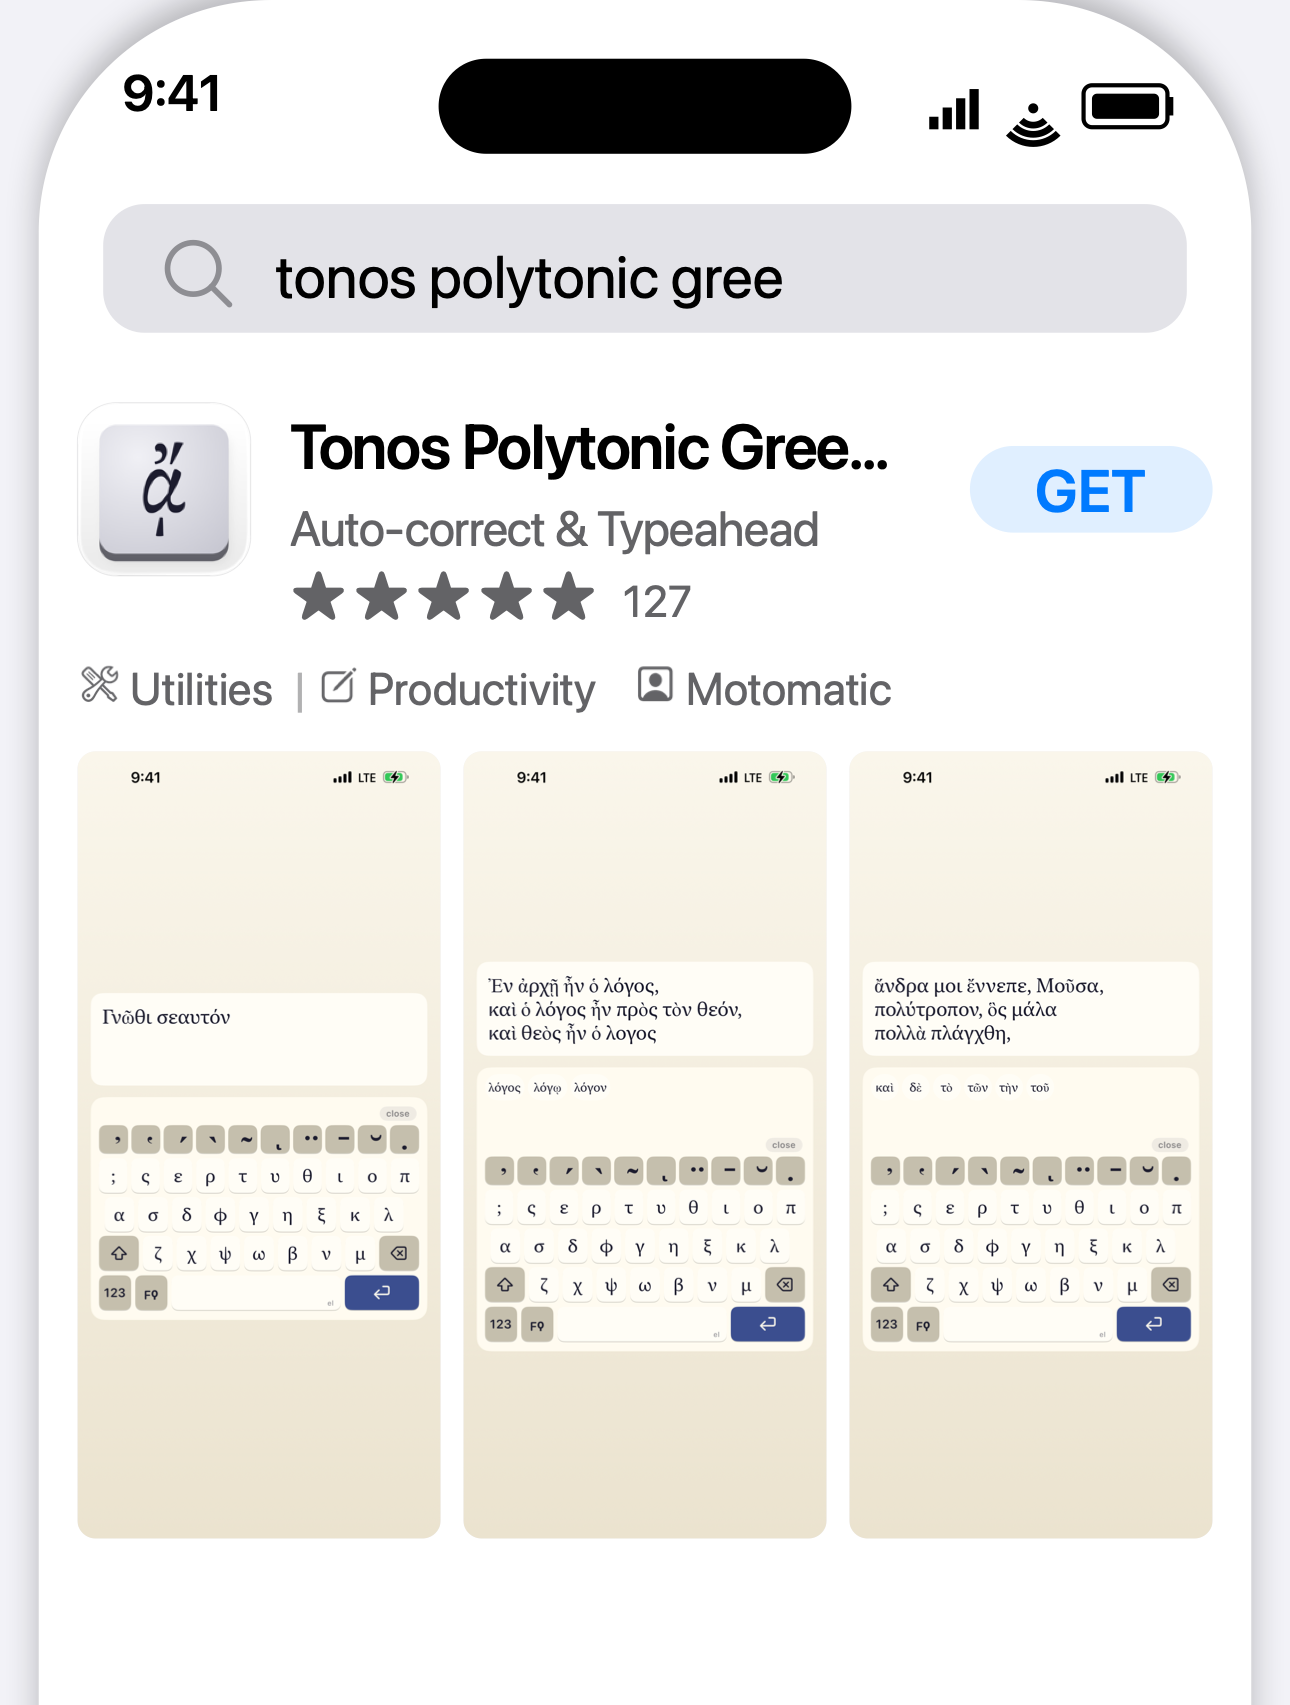
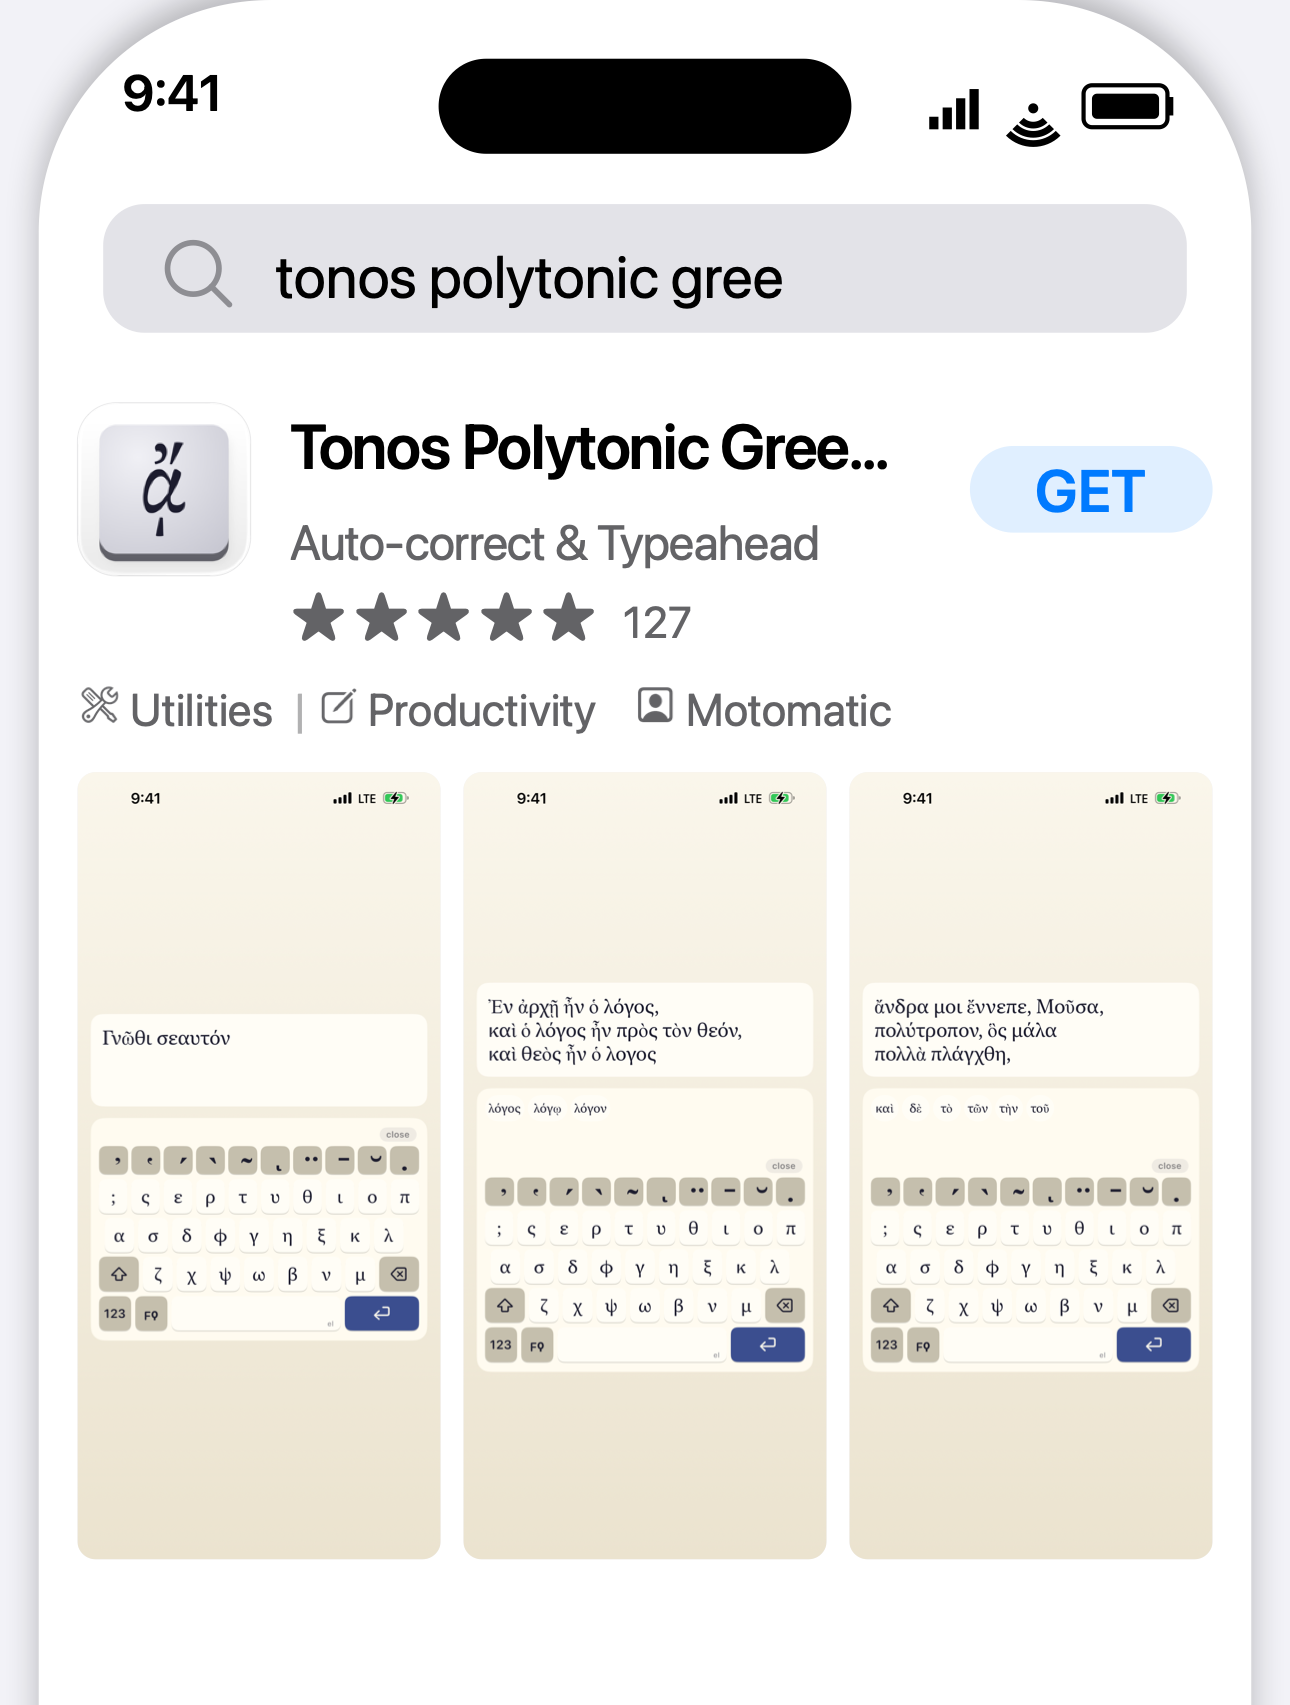
v3.2.2: more breathing room in search-row title/subtitle/stars stack
Bumps inter-row gaps from 10%/6% to 18%/10% of icon size. The previous
values produced visible gaps in raw pixel terms but read as crowded at
the displayed scale on docs. Matches App Store optical spacing better.

diff --git a/Sources/StorescreensCore/Render/SearchPreview/SearchPreviewRenderer.swift b/Sources/StorescreensCore/Render/SearchPreview/SearchPreviewRenderer.swift
@@ -1152,12 +1152,10 @@ package struct SearchPreviewRenderer {
         // Slight top inset so the three lines visually nest inside the
         // icon's vertical extent.
         let stackTopY = iconRect.minY + iconSize * 0.03
-        // iOS App Store row uses roughly ~30% of the title font size as the
-        // gap between title baseline and subtitle ascent. Our drawText
-        // helper draws from `topLeft` (the ascender top), so we add
-        // descent + gap from the previous line's bottom.
-        let titleSubtitleGap = iconSize * 0.10
-        let subtitleStarsGap = iconSize * 0.06
+        // Generous inter-row gaps so the three-line stack reads with
+        // breathing room — matches App Store search-row optical spacing.
+        let titleSubtitleGap = iconSize * 0.18
+        let subtitleStarsGap = iconSize * 0.10
 
         let nameTopY = stackTopY
         let subtitleTopY = nameTopY + nameLineHeight + titleSubtitleGap
